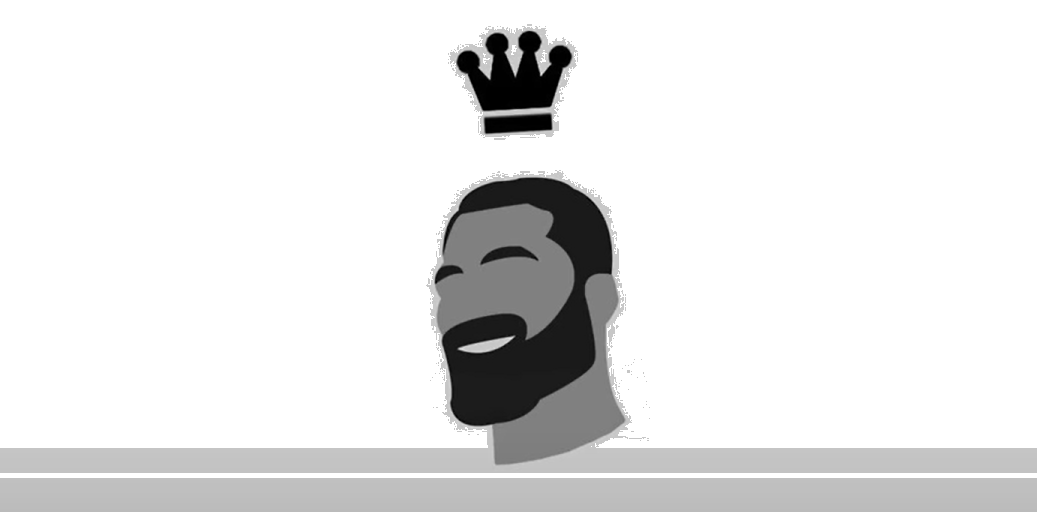
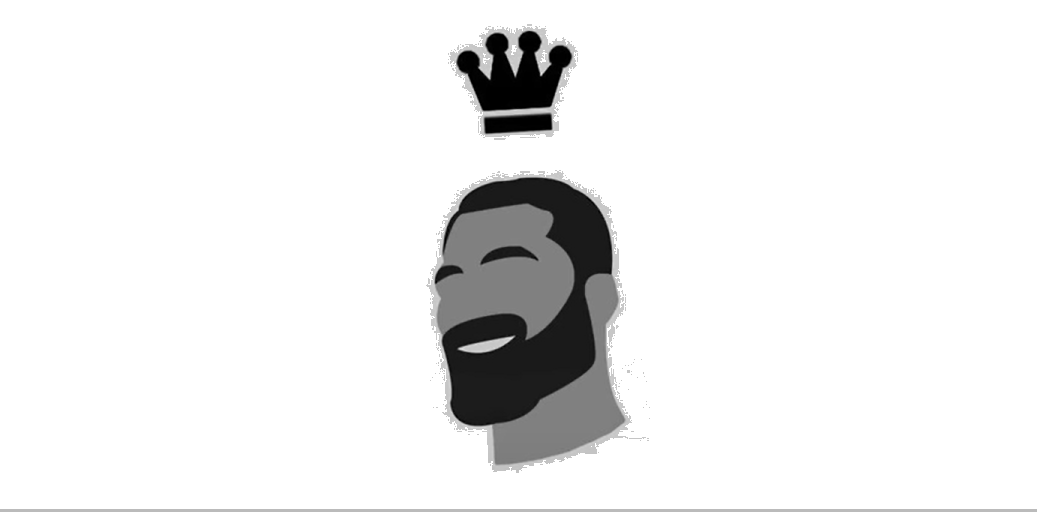
Add: Users overview page

Changed region(s): [[0.0, 0.875, 1.0, 1.0]]

diff --git a/js/users.js b/js/users.js
@@ -1,0 +1,123 @@
+// var USERS_URL = "https://jsonplaceholder.typicode.com/photos"
+
+
+// Kada se ucita stranica ucitaju se svi USERS sa servera
+// var request = new XMLHttpRequest();
+
+load_users();
+
+async function load_users(){
+    
+    const response_array = await request_all_users()
+    // alert("Loading all fitness centers...");
+    setTimeout(() => {
+        finish_users_rendering(response_array);
+    }, 600);
+
+}
+
+async function finish_users_rendering(users_array){
+    // setTimeout(() => {
+        users_array.map(makeUserCard);
+        // alert("Successfully rendered!");
+        // }, 2000);
+}
+
+async function request_all_users(){
+
+    const response_users = [
+    {"us_name":"Mike", "us_surname":"Tyson", "us_address":"Neka Tamo 19, Novi Sad, 21000", "us_birth":"30-06-1966", "us_pic":"../assets/defaultuser.png", "us_phone":"+381612327879", "us_email":"mikey@gmail.com", "us_username":"mikesfury", "us_password":"MiK3*P4sS864"},
+    {"us_name":"Zyzz", "us_surname":"King", "us_address":"Nova Ulicica 23, Novi Sad, 21000", "us_birth":"11-10-1989", "us_pic":"../assets/defaultuser.png", "us_phone":"+38164987321", "us_email":"zyzzy@yahoo.com", "us_username":"YungZz", "us_password":"ZyZZy*P4sS975"},
+    {"us_name":"Arnold", "us_surname":"Schwarzenegger", "us_address":"Trg Novih Ulica 32, Novi Sad, 21000", "us_birth":"30-06-1947", "us_pic":"../assets/defaultuser.png", "us_phone":"+381659993332", "us_email":"arny@hotmail.com", "us_username":"ArnySchwarz1", "us_password":"ArNy*P4sS420"},
+    {"us_name":"Andrew", "us_surname":"Tate", "us_address":"Ulica Stara 8, Novi Sad, 21000", "us_birth":"14-12-1986", "us_pic":"../assets/defaultuser.png", "us_phone":"+381698887773", "us_email":"tate@yahoo.com", "us_username":"TaTe28", "us_password":"TaTe*P4sS4220"},
+    // {"fc_id":5, "fc_name":'Drop \'em!', "fc_address":"Ulica Nova 27b, Novi Sad, 21000", "fc_est":2011, "fc_pic":"../assets/gympic5.jpg", "fc_tr_num":1, "fc_memb_price":1990, "fc_ratings_avg":4.5, "fc_ratings_num":2},
+    // {"fc_id":6, "fc_name":"Walk the talk", "fc_address":"Ulica Stara 71, Novi Sad, 21000", "fc_est":2021, "fc_pic":"../assets/gympic6.png", "fc_tr_num":1, "fc_memb_price":1890, "fc_ratings_avg":3.67, "fc_ratings_num":3},
+    // {"fc_id":7, "fc_name":"Testosterone", "fc_address":"Ulicica Starija 19a, Novi Sad, 21000", "fc_est":2022, "fc_pic":"../assets/gympic7.jpg", "fc_tr_num":2, "fc_memb_price":2790, "fc_ratings_avg":4.0, "fc_ratings_num":1},
+    // {"fc_id":8, "fc_name":"Stronger than yesterday", "fc_address":"Ulicica Skorasnja 29, Novi Sad, 21000", "fc_est":2021, "fc_pic":"../assets/gympic8.png", "fc_tr_num":2, "fc_memb_price":2090, "fc_ratings_avg":4, "fc_ratings_num":1},
+    ];
+
+    return response_users;
+}
+
+// request.onreadystatechange = function() {
+    // if(this.readyState == 4) {
+    //     if(this.status == 200) {
+            // var users = JSON.parse(request.responseText);
+            // finish_users_rendering(users); 
+
+        // }else {
+        //     console.error('Error loading Users.')
+        // }
+    // }
+// }
+
+// request.open('GET', USERS_URL);
+// request.send();
+
+function makeUserCard(userObj){
+    // setTimeout(()=>{}, 1000);
+    var mainContentDiv = document.getElementById('content');
+    
+    var userDiv = document.createElement('div');
+    userDiv.classList.add('user-card');
+    mainContentDiv.appendChild(userDiv);
+
+    var cardContentWrapper = document.createElement('div');
+    cardContentWrapper.classList.add('card-content-wrapper');
+    userDiv.appendChild(cardContentWrapper);
+
+    var cardTopDiv = document.createElement('div');
+    cardTopDiv.classList.add('card-top');
+    var cardTopLeftDiv = document.createElement('div');
+    cardTopLeftDiv.classList.add('card-top-left');
+    var aElement = document.createElement('a');
+    aElement.setAttribute('id', 'see-more-link');
+    aElement.setAttribute('href', './user.html');
+    // Alternatively (for older browsers) aElement.innerHtml
+    aElement.textContent = "@".concat(userObj.us_username);
+    cardTopLeftDiv.appendChild(aElement);
+    cardTopDiv.appendChild(cardTopLeftDiv);
+    var cardTopRightDiv = document.createElement('div');
+    cardTopRightDiv.classList.add('card-top-right');
+    cardTopRightDiv.textContent = userObj.us_birth;
+    cardTopDiv.appendChild(cardTopRightDiv);
+    cardContentWrapper.appendChild(cardTopDiv);
+
+    var cardMiddleDiv = document.createElement('div');
+    cardMiddleDiv.classList.add('card-middle');
+    var cardMiddlePic = document.createElement('img');
+    cardMiddlePic.setAttribute('src', userObj.us_pic);
+    cardMiddleDiv.appendChild(cardMiddlePic);
+    cardContentWrapper.appendChild(cardMiddleDiv);
+
+    var cardBottomDiv = document.createElement('div');
+    cardBottomDiv.classList.add('card-bottom');
+    var cardBottomLeftDiv = document.createElement('div');
+    cardBottomLeftDiv.classList.add('card-bottom-left');
+    cardBottomLeftDiv.textContent = userObj.us_phone;
+// 
+    // var starRatingPic = document.createElement('img');
+    // starRatingPic.setAttribute('src', '../assets/star.jpg');
+    // starRatingPic.setAttribute('id', 'star-rating');
+    // cardBottomLeftDiv.appendChild(starRatingPic);
+// 
+    cardBottomDiv.appendChild(cardBottomLeftDiv);
+    var cardBottomRightDiv = document.createElement('div');
+    cardBottomRightDiv.classList.add('card-bottom-right');
+    cardBottomRightDiv.textContent = userObj.us_email;
+    cardBottomDiv.appendChild(cardBottomRightDiv);
+    cardContentWrapper.appendChild(cardBottomDiv);
+}
+
+
+function scrollToTop(){
+    window.scrollTo({ top: 0, behavior: "smooth" });
+}
+
+
+function to_users_page(){
+    window.location.href = "users.html";
+}
+function to_homepage(){
+    window.location.href = "homepage.html";
+}

diff --git a/pages/users.html b/pages/users.html
@@ -6,9 +6,9 @@
     <meta name="viewport" content="width=device-width, initial-scale=1.0">
     <title>Homepage</title>
 
-    <link rel="stylesheet" href="../styles/homepage.css">
+    <link rel="stylesheet" href="../styles/users.css">
     <!-- <link rel="stylesheet" href="../styles/header.css"> -->
-    <script defer src="../js/fitcenters.js"></script>
+    <script defer src="../js/users.js"></script>
 </head>
 <body>
     <header id="header">
@@ -22,23 +22,8 @@
     </header>
 
     <main id="content">
-        <!-- EXAMPLE FITNESS CENTER DISPLAY CARD -->
-
-        <!-- <div id="" class="fit-cent">
-            <div class="card-content-wrapper">
-                <div class="card-top">
-                    <div class="card-top-left"></div>
-                    <div class="card-top-right"></div>
-                </div>
-                <div class="card-middle"><img src="../assets/gympic.png" alt=""></div>
-                
-                <div class="card-bottom">
-                    <div class="card-bottom-left"></div>
-                    <div class="card-bottom-right"><a href="./fitcenter.html">More</a></div>
-                </div>
-            </div>
-        </div> -->
-
+        <!-- USER DISPLAY CARD -->
+        <!-- ... -->
     </main>
     <div id="footer"><button id="scroller" onclick="scrollToTop()">Back to the Top</button></div>
 </body>

diff --git a/styles/users.css b/styles/users.css
@@ -57,7 +57,7 @@ main{
     border: 3px solid rgb(231, 231, 231);
 }
 
-.fit-cent{
+.user-card{
     /* min-height: 100px; */
     height: fit-content;
     width: 48vh;
@@ -67,8 +67,8 @@ main{
     border-radius: 5px;
     border: 2px solid whitesmoke;
 }
-.fit-cent:hover{
-    background-image: linear-gradient(to top left, #fd885d, rgb(77, 77, 255));
+.user-card:hover{
+    background-image: linear-gradient(to top left, #fd885d, darkblue);
     transition: all .3s ease-in-out;
 }
 
@@ -146,7 +146,8 @@ main{
 
 img{
     border: 1px solid lightblue;
-    margin: auto;
+    margin: 10px;
+    border-radius: 50%;
 }
 /* img:hover{
     border: 1px solid #fc581c;

diff --git a/js/fitcenters.js b/js/fitcenters.js
@@ -113,6 +113,12 @@ function scrollToTop(){
     window.scrollTo({ top: 0, behavior: "smooth" });
 }
 
+function to_users_page(){
+    window.location.href = "users.html";
+}
+function to_homepage(){
+    window.location.href = "homepage.html";
+}
 // all_fitness_centers.push(
 //     )
 // var fitness_center = {
